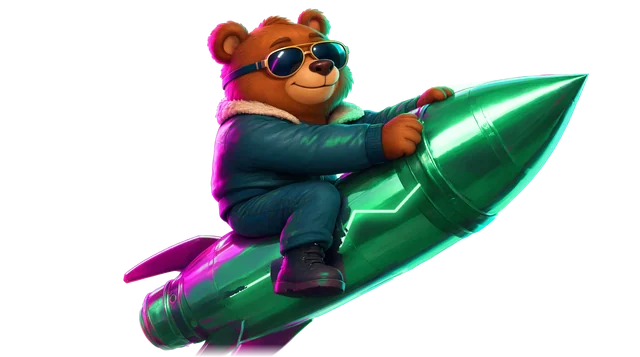
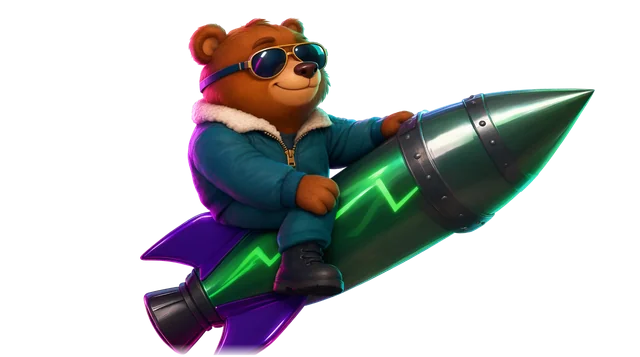
Bear art: calm, joyful and empty rocket from the new green picture
The calm edit is matched onto the joyful picture (pixel-compared patches on
the nozzle, the band and the tip) and straightened the same way, so the
face change at x2 swaps nothing but the bear. The rocket alone came as a
picture of its own (nose bent 3.6 degrees, hull 15% fatter, band
narrower): it is straightened, then reshaped along the axis onto the
riding rocket (lengthwise through the band, across by the hulls' widths),
so the bail-out keeps the outline and the bands.

The prototype passes its version to the kit files, so a phone never
mixes a cached kit.json with new pictures. Prototype version 8.

diff --git a/app/proto/scene2.js b/app/proto/scene2.js
@@ -178,14 +178,14 @@ function create(cv,opts){
   /* The painted bear and rocket (app/art/bear, made by art-kits/tools/bear_kit.py). Until every picture is in, the
      vector ones stand in. The rocket picture is scaled to 150 units from the nozzle to the tip; RK follows it. */
   const KIT={ready:false,img:{}};
-  if(opts&&opts.kit){const base=opts.kit;fetch(base+'kit.json').then(r=>r.ok?r.json():Promise.reject(r.status)).then(j=>{KIT.j=j;
+  if(opts&&opts.kit){const base=opts.kit,v=opts.ver?'?v='+opts.ver:'';fetch(base+'kit.json'+v).then(r=>r.ok?r.json():Promise.reject(r.status)).then(j=>{KIT.j=j;
     const files=['cheer-calm','cheer-hype','cheer-scared','cheer-win','hang','fall','rocket'].concat(j.ride?j.ride.faces.map(f=>'ride-'+f).concat('ride-empty'):[]);let n=0;
     files.forEach(f=>{const im=new Image();im.decoding='async';im.onload=()=>{if(++n<files.length)return;
       const R=j.rocket;KIT.u=150/(R.tip[0]-R.nozzle[0]);KIT.M=[(R.nozzle[0]+R.tip[0])/2,(R.nozzle[1]+R.tip[1])/2];
       RK.tail=(R.nozzle[0]-KIT.M[0])*KIT.u;RK.seat=[(R.seat[0]-KIT.M[0])*KIT.u,(R.seat[1]-KIT.M[1])*KIT.u];
       if(j.ride){const D=j.ride,L=Math.hypot(D.tip[0]-D.tail[0],D.tip[1]-D.tail[1]);
         KIT.ride={...D,M:[(D.tail[0]+D.tip[0])/2,(D.tail[1]+D.tip[1])/2],rs:RIDE_LEN/L};RK.tail=-RIDE_LEN/2;ANG.fly=D.angle;ANG.pad=D.angle-.12}
-      KIT.ready=true;if(W>1){paintStatic();if(st.phase==='wait'&&!st.drop)api.placeOnPad()}};im.src=base+f+'.webp';KIT.img[f]=im})}).catch(()=>{})}
+      KIT.ready=true;if(W>1){paintStatic();if(st.phase==='wait'&&!st.drop)api.placeOnPad()}};im.src=base+f+'.webp'+v;KIT.img[f]=im})}).catch(()=>{})}
 
   function paintStatic(){
     const R=rng(7);

diff --git a/app/proto/index.html b/app/proto/index.html
@@ -41,14 +41,16 @@ html,body{height:100%;margin:0;background:#07040f;color:var(--text);font:14px/1.
 </div>
 <script>
 /* GitHub Pages lets a browser keep this page for 10 minutes. Ask for the current version past every cache and, if this
-   copy is older, reload once with the version in the address (a new address is never served from the cache). */
-(()=>{const V='7';fetch('ver.json?t='+Date.now(),{cache:'no-store'}).then(r=>r.json()).then(d=>{
-  if(!d||d.v===V)return;const u=new URL(location.href);if(u.searchParams.get('pv')===d.v)return;u.searchParams.set('pv',d.v);location.replace(u)}).catch(()=>{})})();
+   copy is older, reload once with the version in the address (a new address is never served from the cache). The
+   bear's pictures carry the version too. */
+const PV='8';
+(()=>{fetch('ver.json?t='+Date.now(),{cache:'no-store'}).then(r=>r.json()).then(d=>{
+  if(!d||d.v===PV)return;const u=new URL(location.href);if(u.searchParams.get('pv')===d.v)return;u.searchParams.set('pv',d.v);location.replace(u)}).catch(()=>{})})();
 </script>
-<script src="scene2.js?v=7"></script>
+<script src="scene2.js?v=8"></script>
 <script>
 (()=>{
-const $=id=>document.getElementById(id),cv=$('cv'),stage=$('stage'),scene=Scene2.create(cv,{kit:"../art/bear/"});
+const $=id=>document.getElementById(id),cv=$('cv'),stage=$('stage'),scene=Scene2.create(cv,{kit:"../art/bear/",ver:PV});
 const q=new URLSearchParams(location.search),FIX=parseFloat(q.get('x'))||0,AUTO=parseFloat(q.get('auto'))||0;
 const K=.12,WAIT=5,HOLD=5;
 let phase='wait',t0=performance.now(),m=1,crashAt=2,cashed=false,last=performance.now();

diff --git a/art-kits/tools/bear_kit.py b/art-kits/tools/bear_kit.py
@@ -166,57 +166,161 @@ def fade_bottom(im, frac=.16):
 
 # ---------------- the bear riding the rocket ----------------
 RIDE_K = .32                                     # the riding pictures are made 2000 px wide; the game files are 640
-# The generator bends the nose a few degrees off the hull, so each picture is straightened (straighten.py) from its
-# landmarks, picked on the picture: the centres of the nozzle's rear face and of the band's rear and front faces.
-# A picture that is already straight (an edit of the straightened one) needs none.
-RIDE_FIX = {'hype': ((511.5, 1016.5), (1331.5, 560), (1396, 528.5))}
+# The other faces are edits of the reference picture: the generator keeps the framing within a few pixels, so each
+# edit is matched onto the reference on rocket parts no pose covers (the nozzle, the band's bottom, the tip).
+RIDE_REF = 'hype'
+RIDE_PATCHES = [(430, 880, 640, 1100), (1350, 620, 1520, 750), (1700, 200, 1850, 330)]
+# The generator bends the nose a few degrees off the hull, so the pictures are straightened (straighten.py) from
+# landmarks picked on the reference: the centres of the nozzle's rear face and of the band's rear and front faces.
+RIDE_FIX = ((511.5, 1016.5), (1331.5, 560), (1396, 528.5))
 # the axis of the straightened riding pictures: the centre of the nozzle's rear face and the nose tip
 RIDE_TAIL, RIDE_TIP = (511.5, 1016.5), (1857, 281)
 RIDE_CHEST = (880, 400)                          # where the bear leaves the rocket from at the bail-out
-# the rocket alone for after the bail-out: its landmarks and axis, picked on its picture
-EMPTY_FIX = None
-EMPTY_TAIL, EMPTY_TIP = None, None
+# The rocket alone for after the bail-out, a picture of its own framing. Its hull is in full view, so the straightening
+# takes two points of the hull's mid-line (the nozzle is drawn a little off it) and the band's front; the axis is then
+# the nozzle's centre and the tip of the straightened picture, as on the riding ones. Then it is reshaped onto the
+# riding rocket (fit_empty).
+EMPTY_FIX = ((851.0, 683.6), (1254.7, 424.0), (1355.7, 359.1))
+EMPTY_TAIL, EMPTY_TIP = (436, 926), (1795.5, 79.7)
 
 
-def cut_ride(path, fix):
-    sp = Image.open(path).convert('RGB')
+def register(img, ref, patches, r=10):
+    """An edit laid exactly over the reference picture: each patch's shift found by comparing pixels (to a fraction of
+    a pixel), then the turn, scale and shift that fit them all."""
+    a = np.asarray(ref.convert('RGB')).astype(np.float32); b = np.asarray(img.convert('RGB')).astype(np.float32)
+    src, dst = [], []
+    for x0, y0, x1, y1 in patches:
+        P = a[y0:y1, x0:x1]
+        E = np.full((2 * r + 1, 2 * r + 1), np.inf)
+        for dy in range(-r, r + 1):
+            for dx in range(-r, r + 1):
+                if y0 + dy >= 0 and x0 + dx >= 0 and y1 + dy <= b.shape[0] and x1 + dx <= b.shape[1]:
+                    E[dy + r, dx + r] = np.abs(b[y0 + dy:y1 + dy, x0 + dx:x1 + dx] - P).mean()
+        iy, ix = np.unravel_index(np.argmin(E), E.shape)
+
+        def sub(e0, e1, e2):                      # the parabola's low point through three neighbours
+            d = e0 - 2 * e1 + e2
+            return .5 * (e0 - e2) / d if np.isfinite(d) and d > 0 else 0
+        fx = sub(E[iy, ix - 1], E[iy, ix], E[iy, ix + 1]) if 0 < ix < 2 * r else 0
+        fy = sub(E[iy - 1, ix], E[iy, ix], E[iy + 1, ix]) if 0 < iy < 2 * r else 0
+        c = np.array([(x0 + x1) / 2, (y0 + y1) / 2])
+        dst.append(c); src.append(c + (ix - r + fx, iy - r + fy))
+    # least squares for [x', y'] = [[p, -q], [q, p]] [x, y] + t, from the edit's points to the reference's
+    rows, rhs = [], []
+    for (x, y), (X, Y) in zip(src, dst):
+        rows += [[x, -y, 1, 0], [y, x, 0, 1]]; rhs += [X, Y]
+    p, q, tx, ty = np.linalg.lstsq(np.array(rows), np.array(rhs), rcond=None)[0]
+    M = np.array([[p, -q], [q, p]]); t = np.array([tx, ty])
+    Mi = np.linalg.inv(M); ti = -Mi @ t
+    print('  matched: scale %.4f, turn %.3f deg, shift %s' % (np.hypot(p, q), np.degrees(np.arctan2(q, p)), t.round(1)), file=sys.stderr)
+    return img.convert('RGB').transform(img.size, Image.AFFINE, (Mi[0, 0], Mi[0, 1], ti[0], Mi[1, 0], Mi[1, 1], ti[1]),
+                                        resample=Image.BICUBIC, fillcolor=(255, 255, 255))
+
+
+def cut_ride(sp, fix, name, pockets=True):
+    """Straightened and cut out. `pockets`: enclosed white between the paws and the body goes too (the rocket alone has
+    none, and its white glints would go with it)."""
+    sp = sp.convert('RGB')
     if fix:
         sp, bend = straighten(sp, *fix)
         sp = sp.convert('RGB')
-        print(os.path.basename(path), 'nose bent by %.2f degrees, straightened' % bend, file=sys.stderr)
-    c = holes(sp, remove_white(sp))
-    a = np.asarray(c).copy(); hgt = a.shape[0]; n = 40          # the picture's cut bottom edge melts away
+        print(name, 'nose bent by %.2f degrees, straightened' % bend, file=sys.stderr)
+    return holes(sp, remove_white(sp)) if pockets else remove_white(sp)
+
+
+def melt_bottom(im, n=40):
+    """The riding picture's bottom edge cuts the fin and the nozzle: it melts away instead of ending in a straight line."""
+    a = np.asarray(im).copy(); hgt = a.shape[0]
     a[hgt - n:, :, 3] = (a[hgt - n:, :, 3] * np.linspace(1, 0, n)[:, None]).astype(np.uint8)
     return Image.fromarray(a, 'RGBA')
+
+
+def hull_profile(alpha, tail, tip, n=400):
+    """The hull's lower edge: its distance below the axis at n points from the nozzle (0) to the tip (1)."""
+    T, P = np.array(tail, float), np.array(tip, float); L = np.linalg.norm(P - T); u = (P - T) / L; nv = np.array([-u[1], u[0]])
+    s = np.linspace(0, 1, n); d = np.arange(0, 500, .5)
+    xs = T[0] + u[0] * s[:, None] * L + nv[0] * d[None, :]; ys = T[1] + u[1] * s[:, None] * L + nv[1] * d[None, :]
+    ok = (xs >= 0) & (ys >= 0) & (xs < alpha.shape[1] - 1) & (ys < alpha.shape[0] - 1)
+    inside = ok & (alpha[np.clip(np.round(ys).astype(int), 0, alpha.shape[0] - 1), np.clip(np.round(xs).astype(int), 0, alpha.shape[1] - 1)] > 128)
+    out = ~inside
+    return s, d[np.where(out.any(1), out.argmax(1), len(d) - 1)]
+
+
+def band_marks(s, r):
+    """The hull's half width along the body, and where the band bulges out of it: its start, its widest point, its end."""
+    body = np.median(r[(s > .4) & (s < .58)])
+    i0 = np.where((s > .5) & (s < .8) & (r > body * 1.04))[0][0]
+    i1 = i0
+    while i1 + 1 < len(s) and r[i1 + 1] > body * 1.04:
+        i1 += 1
+    return body, (s[i0], s[i0 + np.argmax(r[i0:i1 + 1])], s[i1])
+
+
+def sample(a, sx, sy):
+    """Bilinear samples of an RGBA array (premultiplied, so the edges do not darken), transparent outside."""
+    H, W = a.shape[:2]
+    pm = a.astype(np.float32); pm[..., :3] *= pm[..., 3:] / 255
+    x0 = np.floor(sx).astype(int); y0 = np.floor(sy).astype(int); fx = (sx - x0)[..., None]; fy = (sy - y0)[..., None]
+    inside = (x0 >= 0) & (y0 >= 0) & (x0 < W - 1) & (y0 < H - 1)
+    x0 = np.clip(x0, 0, W - 2); y0 = np.clip(y0, 0, H - 2)
+    v = (pm[y0, x0] * (1 - fx) * (1 - fy) + pm[y0, x0 + 1] * fx * (1 - fy) + pm[y0 + 1, x0] * (1 - fx) * fy + pm[y0 + 1, x0 + 1] * fx * fy)
+    v[~inside] = 0
+    return v                                      # premultiplied
+
+
+def fit_empty(ride, empty, r_axis, e_axis):
+    """The rocket alone laid over the riding picture's rocket. The generator drew it as a picture of its own (a little
+    fatter, the band a little narrower), so it is reshaped along the axis: lengthwise piecewise through the band's
+    marks, across by the ratio of the hulls' widths. Then the swap at the bail-out keeps the outline and the bands."""
+    R = np.asarray(ride); E = np.asarray(empty)
+    (Tr, Pr), (Te, Pe) = [(np.array(a, float), np.array(b, float)) for a, b in (r_axis, e_axis)]
+    Lr, Le = np.linalg.norm(Pr - Tr), np.linalg.norm(Pe - Te)
+    ur, ue = (Pr - Tr) / Lr, (Pe - Te) / Le; nr, ne = np.array([-ur[1], ur[0]]), np.array([-ue[1], ue[0]])
+    s, rr = hull_profile(R[..., 3], Tr, Pr); _, re = hull_profile(E[..., 3], Te, Pe)
+    br, mr = band_marks(s, rr); be, me = band_marks(s, re)
+    xs, ys = [0, *mr, 1], [0, *me, 1]
+
+    def f(q):                                     # lengthwise: through the marks, straight on past the ends
+        return np.where(q < 0, q * ys[1] / xs[1], np.where(q > 1, 1 + (q - 1) * (1 - ys[-2]) / (1 - xs[-2]), np.interp(q, xs, ys)))
+    # across: the ratio of the widths, the body's in the back (the fins hide the hull's edge there), smoothed
+    ratio = np.interp(f(s), s, re) / np.maximum(rr, 1)
+    ratio = np.where(s < .4, be / br, ratio)
+    ratio = np.where(s > .96, ratio[np.searchsorted(s, .96)], ratio)
+    ratio = np.convolve(np.pad(ratio, 6, mode='edge'), np.ones(13) / 13, mode='valid')
+    H, W = R.shape[:2]; yy, xx = np.mgrid[0:H, 0:W].astype(np.float32)
+    S = ((xx - Tr[0]) * ur[0] + (yy - Tr[1]) * ur[1]) / Lr; D = (xx - Tr[0]) * nr[0] + (yy - Tr[1]) * nr[1]
+    S2 = f(S) * Le; D2 = D * np.interp(np.clip(S, 0, 1), s, ratio)
+    out = sample(E, Te[0] + ue[0] * S2 + ne[0] * D2, Te[1] + ue[1] * S2 + ne[1] * D2)
+    a = out[..., 3:]; out[..., :3] = np.where(a > 0, out[..., :3] * 255 / np.maximum(a, 1e-3), 0)
+    print('empty rocket: band %s -> %s, widths %.0f -> %.0f' % (np.round(me, 3), np.round(mr, 3), be, br), file=sys.stderr)
+    return Image.fromarray(np.clip(out, 0, 255).astype(np.uint8), 'RGBA')
 
 
 def build_ride(kit):
     """The bear riding the rocket, one picture per face (edits of one picture: same rocket, same framing), and the
     rocket alone for the bail-out laid along the same axis."""
     faces = [f for f in ['calm', 'hype', 'scared'] if os.path.exists(os.path.join(SRC, 'ride-' + f + '.webp'))]
-    if not faces:
+    if RIDE_REF not in faces:
         return
-    ride = {f: cut_ride(os.path.join(SRC, 'ride-' + f + '.webp'), RIDE_FIX.get(f)) for f in faces}
+    ref = Image.open(os.path.join(SRC, 'ride-' + RIDE_REF + '.webp')).convert('RGB')
+    ride = {}
+    for f in faces:
+        im = ref if f == RIDE_REF else Image.open(os.path.join(SRC, 'ride-' + f + '.webp'))
+        if f != RIDE_REF:
+            print('ride-' + f, file=sys.stderr)
+            im = register(im, ref, RIDE_PATCHES)
+        ride[f] = cut_ride(im, RIDE_FIX, 'ride-' + f)
     tail, tip = np.array(RIDE_TAIL, float), np.array(RIDE_TIP, float); ang = float(np.arctan2(tip[1] - tail[1], tip[0] - tail[0]))
     print('ride axis', tail.round(1), tip.round(1), round(np.degrees(ang), 2), file=sys.stderr)
     for f, im in ride.items():
-        scale(im, RIDE_K).save(os.path.join(OUT, 'ride-' + f + '.webp'), 'WEBP', quality=86, method=6)
-    W0, H0 = ride[faces[0]].size
+        scale(melt_bottom(im), RIDE_K).save(os.path.join(OUT, 'ride-' + f + '.webp'), 'WEBP', quality=86, method=6)
+    W0, H0 = ride[RIDE_REF].size
     kit['ride'] = {'w': round(W0 * RIDE_K), 'h': round(H0 * RIDE_K), 'tail': (tail * RIDE_K).round(1).tolist(), 'tip': (tip * RIDE_K).round(1).tolist(),
                    'angle': round(ang, 4), 'chest': [round(c * RIDE_K) for c in RIDE_CHEST], 'faces': faces}
     ep = os.path.join(SRC, 'ride-empty.webp')
     if os.path.exists(ep):
-        assert EMPTY_TAIL and EMPTY_TIP, 'pick the axis of ride-empty.webp first'
-        e = cut_ride(ep, EMPTY_FIX)
-        et, ep2 = np.array(EMPTY_TAIL, float), np.array(EMPTY_TIP, float); ea = float(np.arctan2(ep2[1] - et[1], ep2[0] - et[0]))
-        k = np.linalg.norm(tip - tail) / np.linalg.norm(ep2 - et); rot = ang - ea
-        c, s_ = np.cos(rot) * k, np.sin(rot) * k
-        # output = M @ input + t: the empty rocket scaled and turned onto the riding rocket's axis, tips together
-        M = np.array([[c, -s_], [s_, c]]); t = tip - M @ ep2
-        Mi = np.linalg.inv(M); ti = -Mi @ t
-        e = e.transform((W0, H0), Image.AFFINE, (Mi[0, 0], Mi[0, 1], ti[0], Mi[1, 0], Mi[1, 1], ti[1]), resample=Image.BICUBIC)
-        print('empty rocket: scale', round(k, 3), 'turn', round(np.degrees(rot), 2), file=sys.stderr)
-        scale(e, RIDE_K).save(os.path.join(OUT, 'ride-empty.webp'), 'WEBP', quality=86, method=6)
+        e = fit_empty(ride[RIDE_REF], cut_ride(Image.open(ep), EMPTY_FIX, 'ride-empty', pockets=False), (RIDE_TAIL, RIDE_TIP), (EMPTY_TAIL, EMPTY_TIP))
+        scale(melt_bottom(e), RIDE_K).save(os.path.join(OUT, 'ride-empty.webp'), 'WEBP', quality=86, method=6)
 
 
 if __name__ == '__main__':
